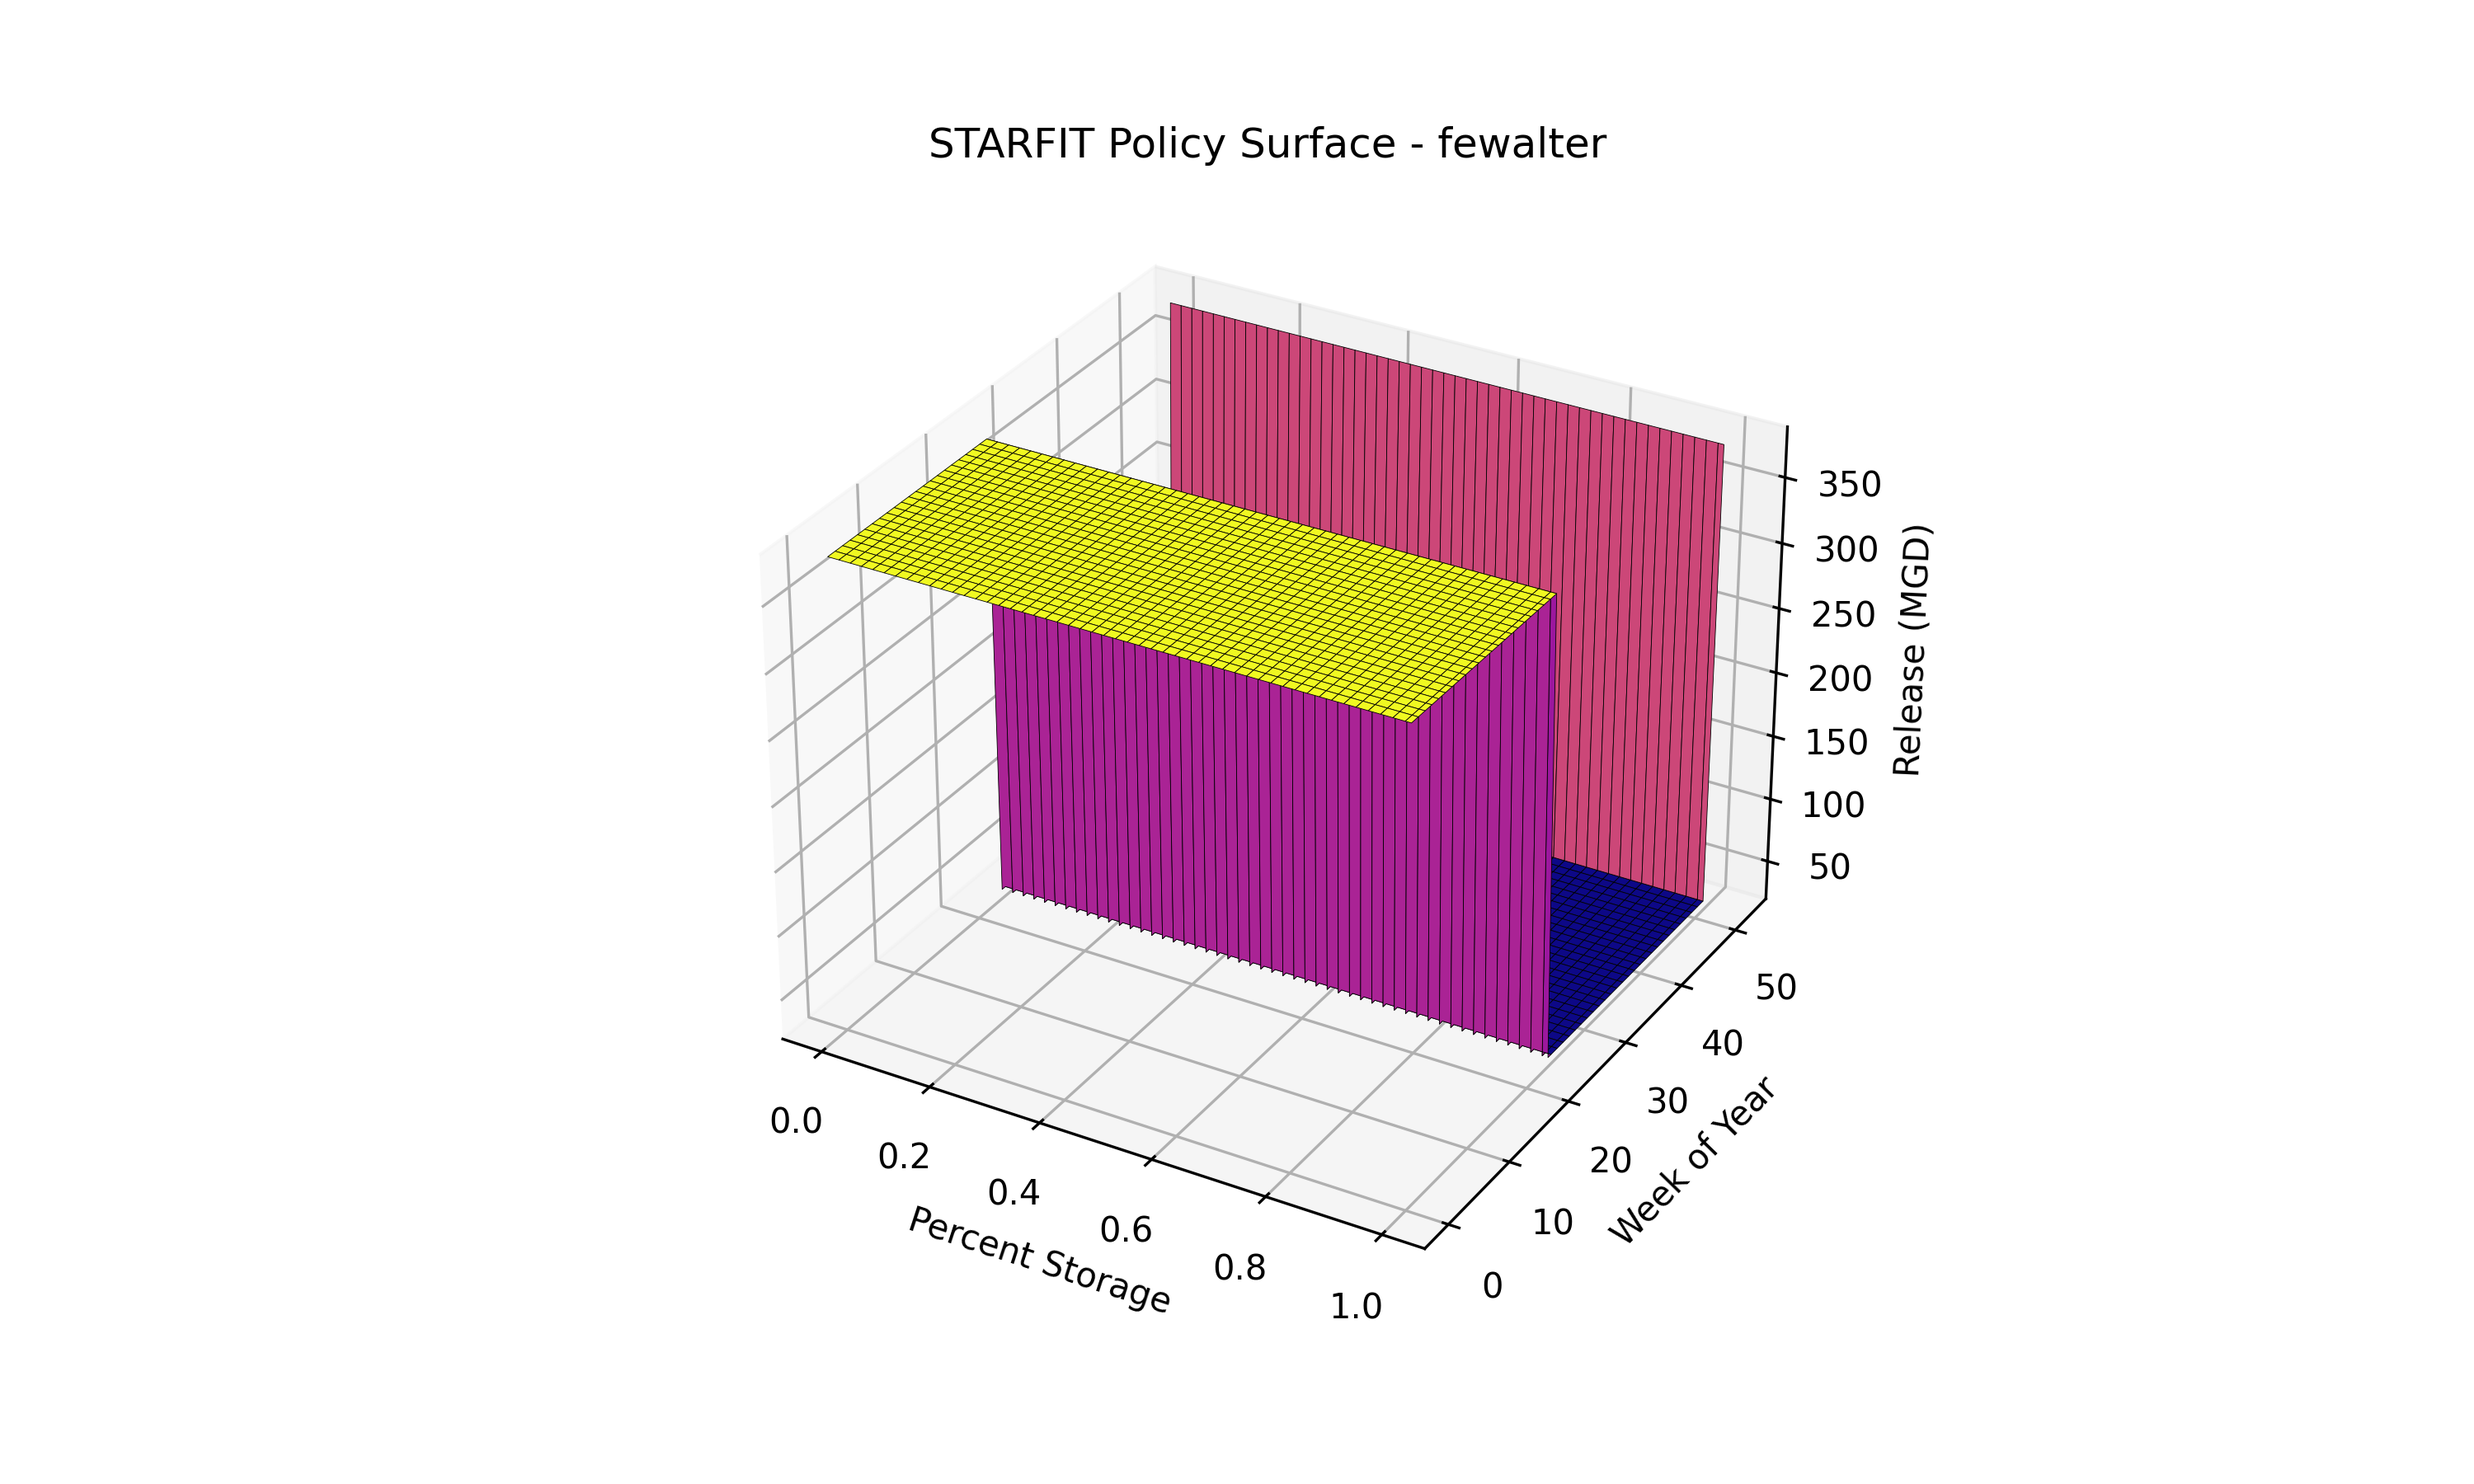
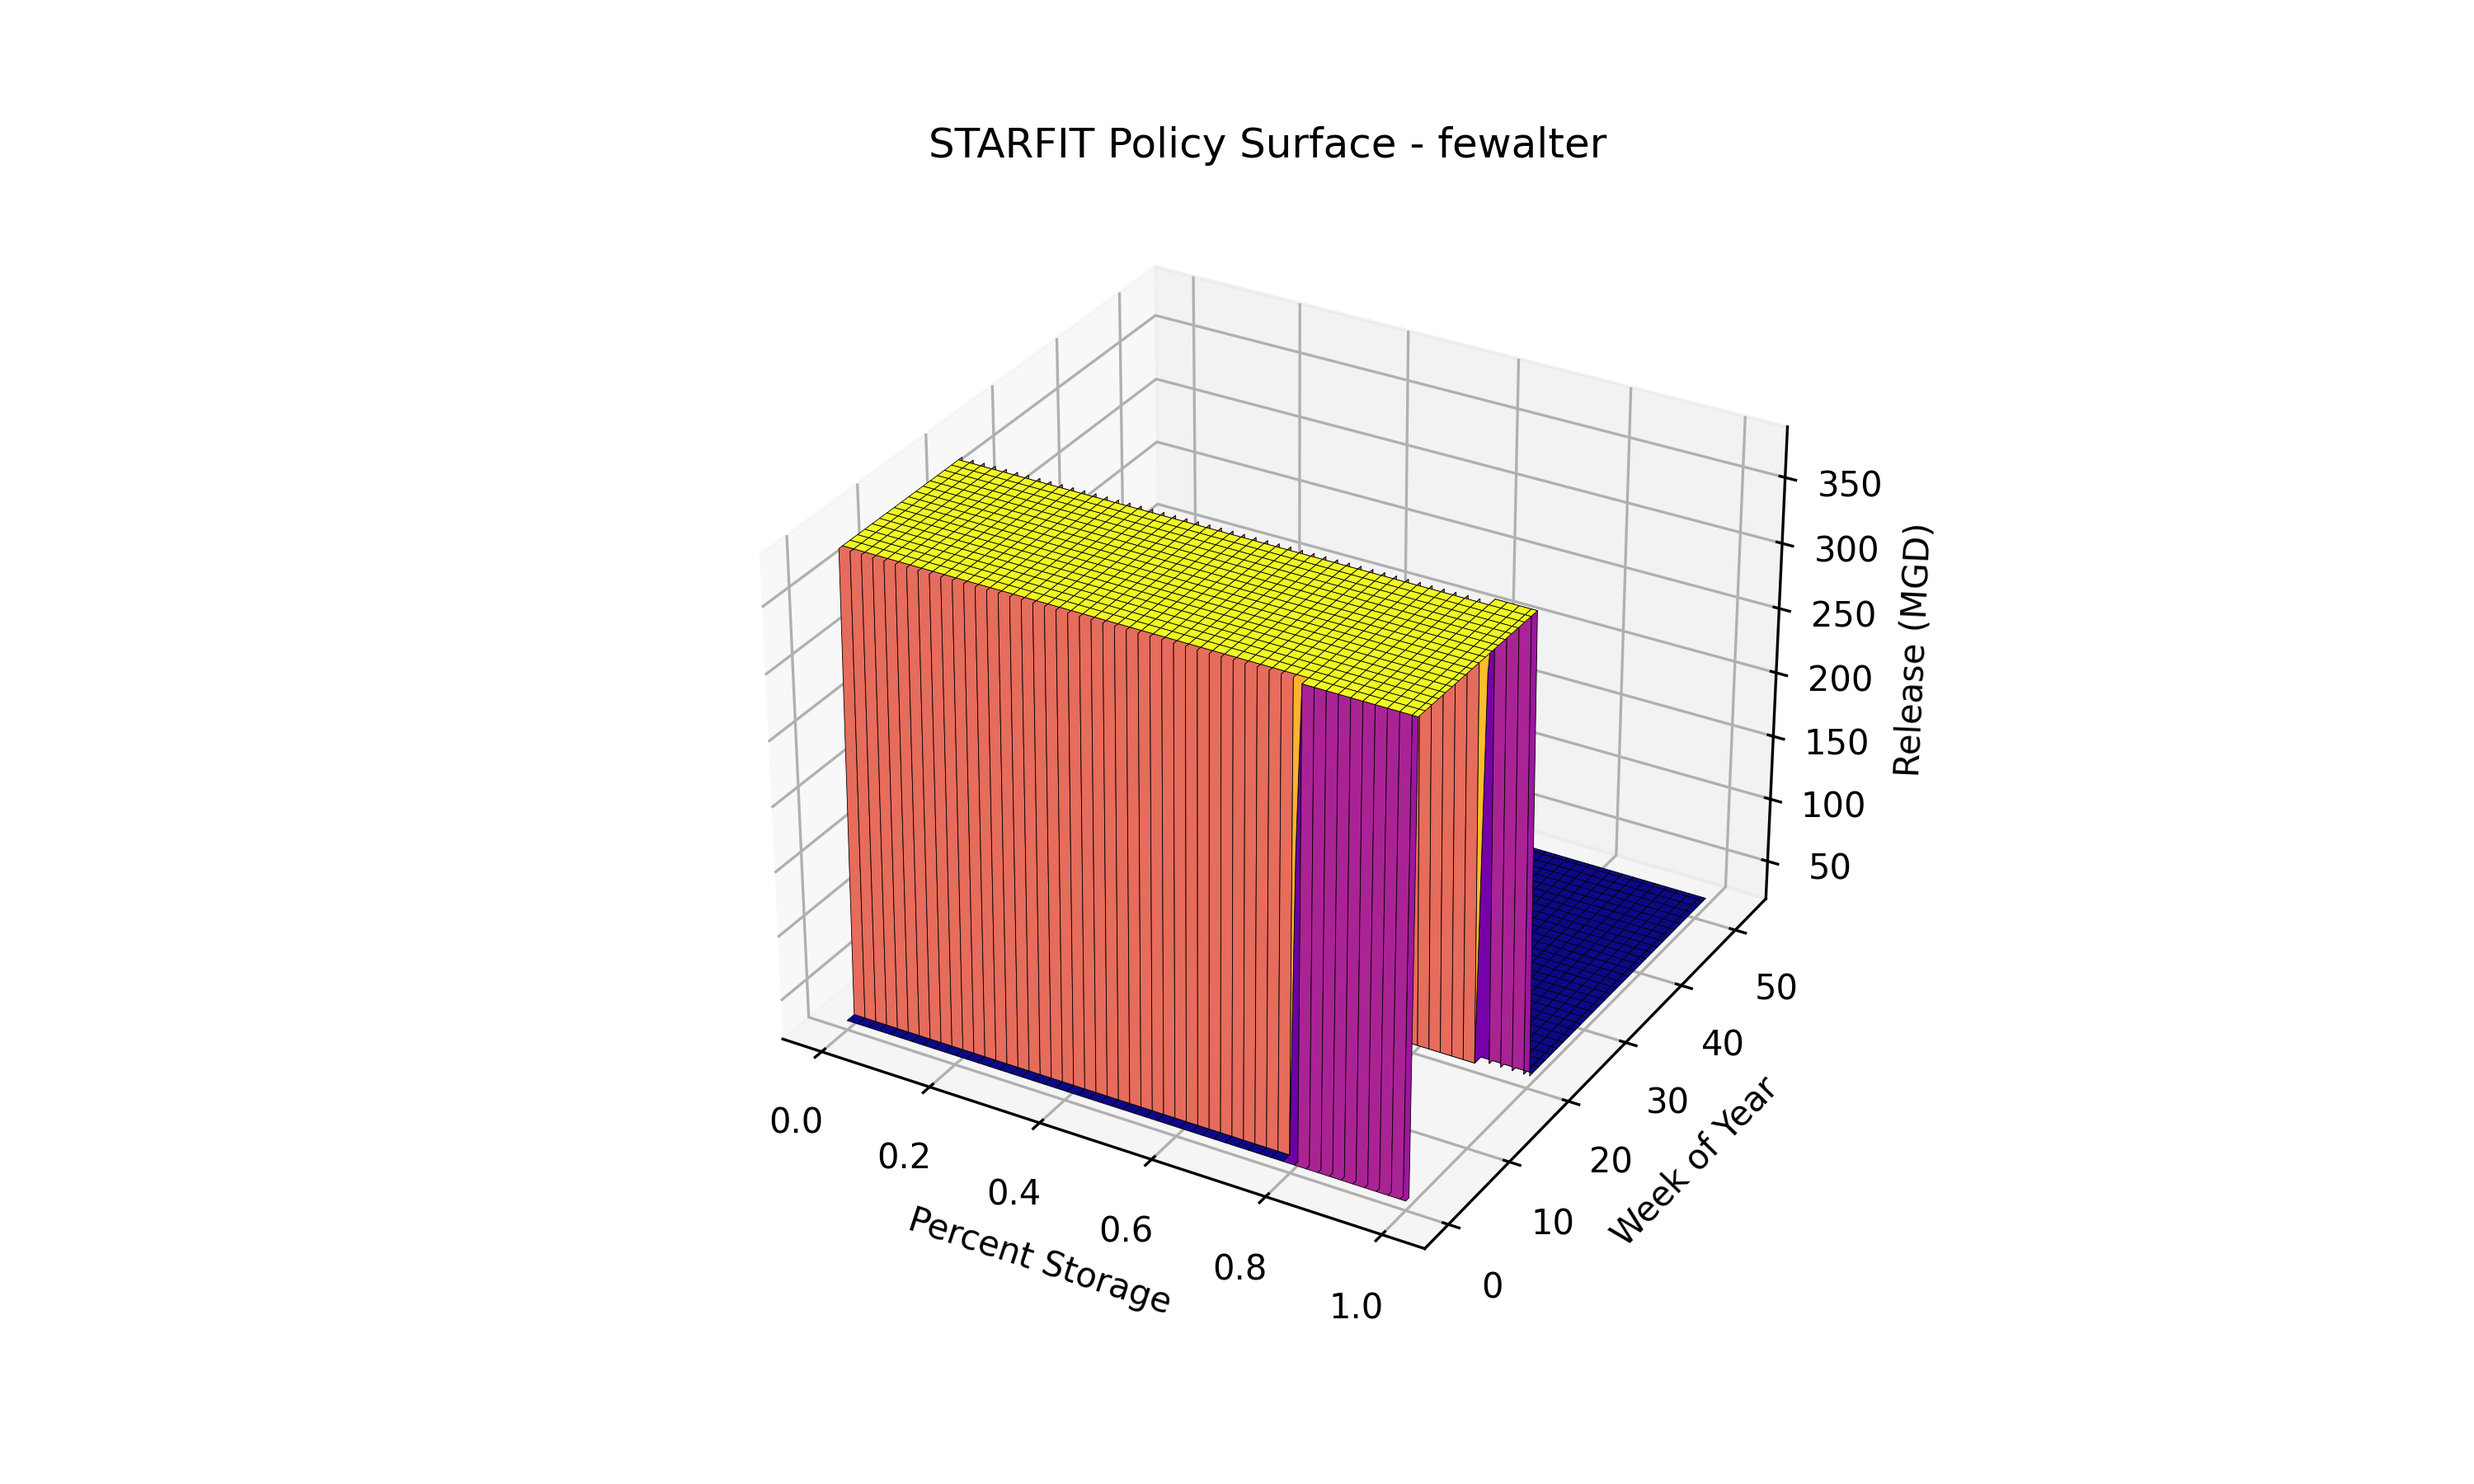
edits to starfit logic and date handling

Changed region(s): [[0.341, 0.1867, 0.713, 0.8089]]

diff --git a/methods/policies/starfit.py b/methods/policies/starfit.py
@@ -126,29 +126,51 @@ class STARFIT(AbstractPolicy):
         self.weekly_NORlo_array = weekly_NORlo
 
     
-    def test_nor_constraint(self):
-        #TODO: Double check this
+    # def test_nor_constraint(self):
+    #     #TODO: Double check this
         
-        self.calculate_weekly_NOR()
-        if np.any(self.weekly_NORhi_array < self.weekly_NORlo_array):
-            return False
-        else:
-            return True
+    #     self.calculate_weekly_NOR()
+    #     if np.any(self.weekly_NORhi_array < self.weekly_NORlo_array):
+    #         return False
+    #     else:
+    #         return True
 
     def percent_storage(self, S_t):
         return S_t / self.S_cap
+
+    def standardize_inflow(self, I_t):
+        return (I_t - self.I_bar) / self.I_bar
+
+    def calculate_release_adjustment(self, S_hat, I_hat, NOR_hi, NOR_lo):
+        A_t = (S_hat - NOR_lo) / (NOR_hi - NOR_lo + 1e-6)  # Avoid divide-by-zero
+        return self.Release_c + self.Release_p1 * A_t + self.Release_p2 * I_hat
 
     def get_release(self, timestep):
         I_t = self.Reservoir.inflow_array[timestep]
         S_t = self.Reservoir.storage_array[timestep - 1] if timestep > 0 else self.Reservoir.initial_storage
 
         S_hat = self.percent_storage(S_t)
+        I_hat = self.standardize_inflow(I_t)
+
         week = self.get_week_index(timestep)
+        NOR_hi = self.calc_NOR_hi(week)
+        NOR_lo = self.calc_NOR_lo(week)
+
         harmonic = self.release_harmonic(week)
+        epsilon = self.calculate_release_adjustment(S_hat, I_hat, NOR_hi, NOR_lo)
+
+        # --- Decision Logic ---
+        if NOR_lo <= S_hat <= NOR_hi:
+            target_R = min(self.I_bar * (harmonic + epsilon) + self.I_bar, self.R_max)
+        elif S_hat > NOR_hi:
+            target_R = min((self.S_cap * (S_hat - NOR_hi) + I_t * 7) / 7, self.R_max)
+        else:
+            target_R = self.R_min
+
 
         #TODO: Double check release formula
-        target_R = (S_hat + harmonic) * self.S_cap + self.Release_c
-        target_R = np.clip(target_R, self.R_min, self.R_max)
+        #target_R = (S_hat + harmonic) * self.S_cap + self.Release_c
+        #target_R = np.clip(target_R, self.R_min, self.R_max)
 
         #TODO: Need to enforce NORhi/lo bounds
         # nor_lo = self.weekly_NORhi_array[week]
@@ -176,8 +198,6 @@ class STARFIT(AbstractPolicy):
         if fname is not None:
             plt.savefig(fname)
         plt.show()
-        
-        
         
 
     def plot(self, fname="STARFIT_Storage_vs_Release.png"):

diff --git a/test_reservoir_policies.py b/test_reservoir_policies.py
@@ -20,7 +20,7 @@ from methods.sampling import generate_policy_param_samples
 # Policies to test
 test_policies = [
     # "RBF",
-    "PiecewiseLinear",
+    #"PiecewiseLinear",
     "STARFIT"
 ]
 
@@ -92,11 +92,9 @@ if __name__ == "__main__":
                 release_max =  reservoir_max_release[RESERVOIR_NAME],
                 initial_storage = None,
                 name = RESERVOIR_NAME,
+                dates = datetime_index,
             )
             
-            if POLICY_TYPE == "STARFIT":
-                reservoir.policy.dates = datetime_index
-
             # Run 
             reservoir.run()
 
@@ -123,11 +121,12 @@ if __name__ == "__main__":
 
 
             # Plot policy function
-            reservoir.policy.plot()
+            #reservoir.policy.plot()
 
             # Plot STARFIT 3D policy surface
             if POLICY_TYPE == "STARFIT":
                 reservoir.policy.plot_policy_surface()
+                reservoir.policy.plot_nor()
             
             # Plot sim and obs dynamics (storage and release)
             reservoir.plot(

diff --git a/methods/reservoir/model.py b/methods/reservoir/model.py
@@ -18,7 +18,9 @@ class Reservoir():
                  inflow_max = None,
                  inflow_min = None,
                  initial_storage = None,
-                 name = None):
+                 start_date = None,
+                 name = None
+                 ):
         """
         Reservoir model class, used to simulate the operation of a reservoir.
         
@@ -69,6 +71,8 @@ class Reservoir():
         # Input timeseries
         self.inflow_array = inflow
         self.T = len(inflow)
+        self.start_date = pd.to_datetime(start_date) if start_date is not None else None
+        self.doy = pd.Series(pd.date_range(start=self.start_date, periods=self.T)).dt.dayofyear.values if self.start_date is not None else None
         
         # Dates
         assert dates is not None, "Dates must be provided to the Reservoir during initalization."
